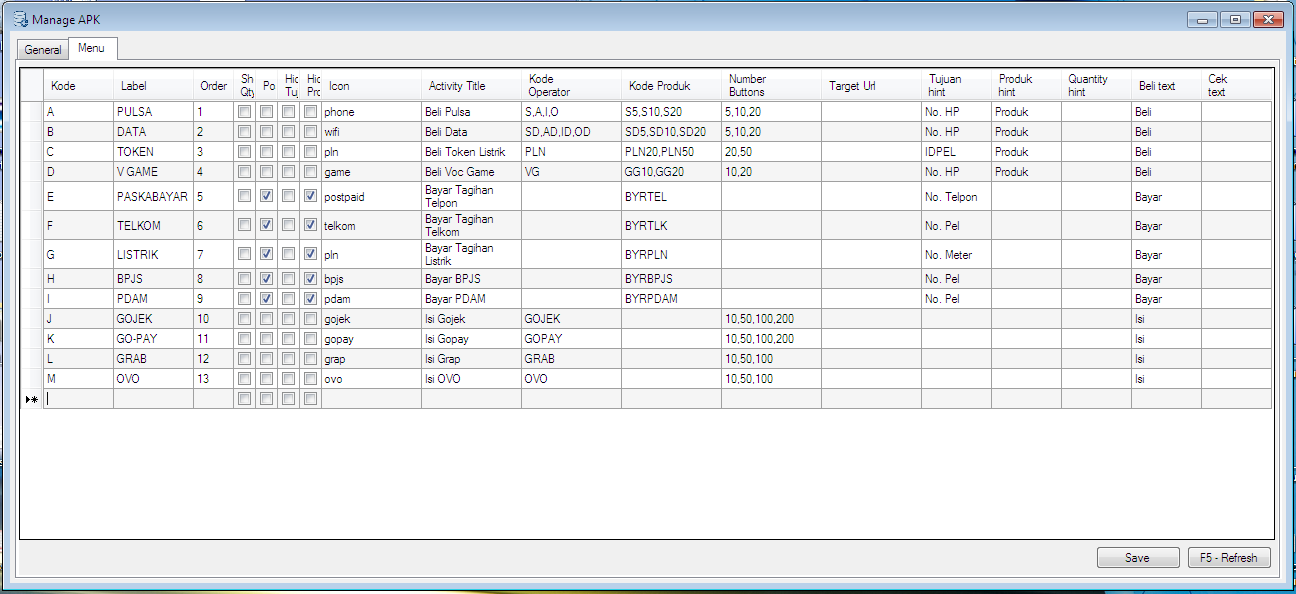
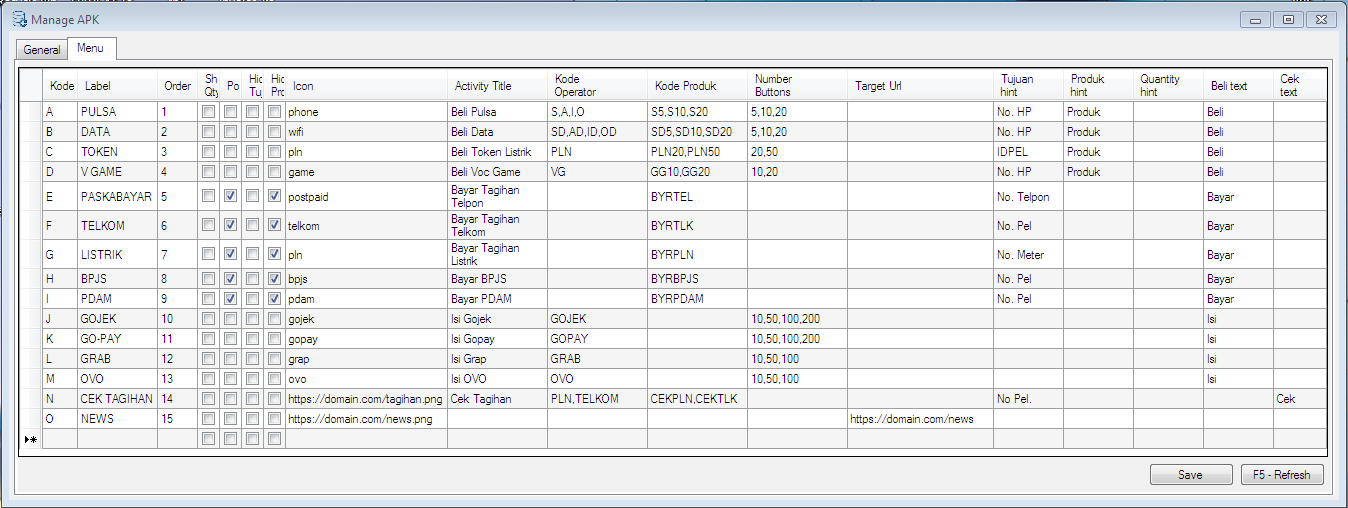
updated 2 img and added some sentence

Changed region(s): [[0.0, 0.0, 1.0, 1.0], [0.7407, 0.7677, 0.7716, 0.7972]]

diff --git a/setting-aplikasi-android.html b/setting-aplikasi-android.html
@@ -389,7 +389,7 @@
                                         <br><br>
                                         <b>Icon</b> dapat juga diisi dengan icon milik Anda sendiri dengan memasukkan URL yang mengarah ke lokasi icon Anda, contoh: https://domain.com/icon_phone.png, perhatikan gambar di bawah ini:
                                         <br><br>
-                                        <img src="images/apk/icon_url.png" alt="icon" width="100%">
+                                        <img src="images/apk/icon-url.png" alt="icon" width="100%">
                                         <br><br></li>
                                         Sebagai informasi ukuran ideal untuk <b>Icon</b> menu kisaran 72 x 72 px dengan format *.PNG serta mendukung alpha/transparan.
                                     <li><b>Activity Title.</b>
@@ -406,7 +406,7 @@
                                         Pilihan tombol nomor yang bisa diklik untuk isian Produk atau Quantity.</li>
                                     <li><b>Target Url</b>
                                         <br>
-                                        Jika diisi, aplikasi akan menuju url tersebut saat menu diklik.</li>
+                                        Jika diisi, aplikasi akan menuju url tersebut saat menu diklik. Contoh: isi dengan url yang mengarah ke halaman web berisi news.</li>
                                     <li><b>Tujuan Hint</b>
                                         <br>
                                         Teks petunjuk yang muncul pada isian tujuan dan akan hilang ketika tujuan diisi.</li>
